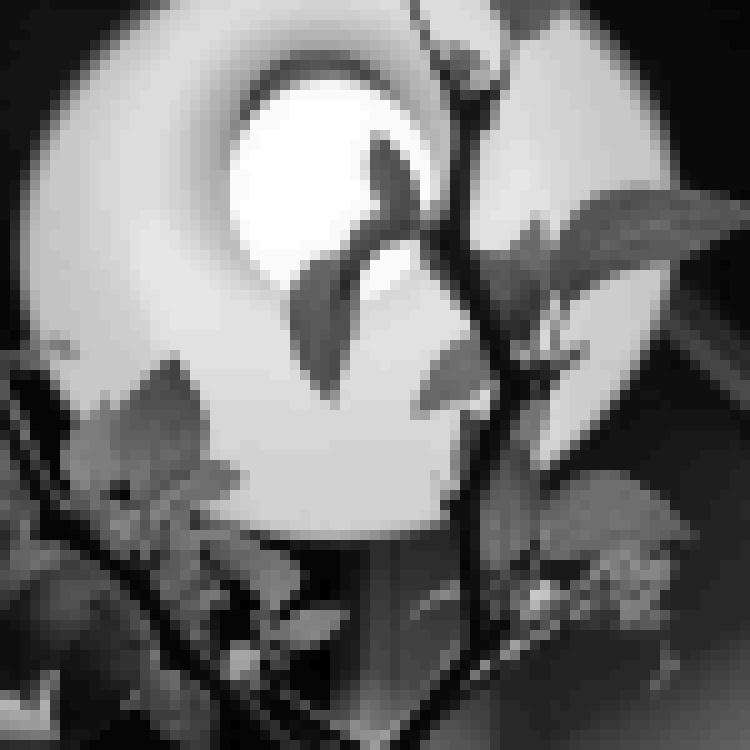
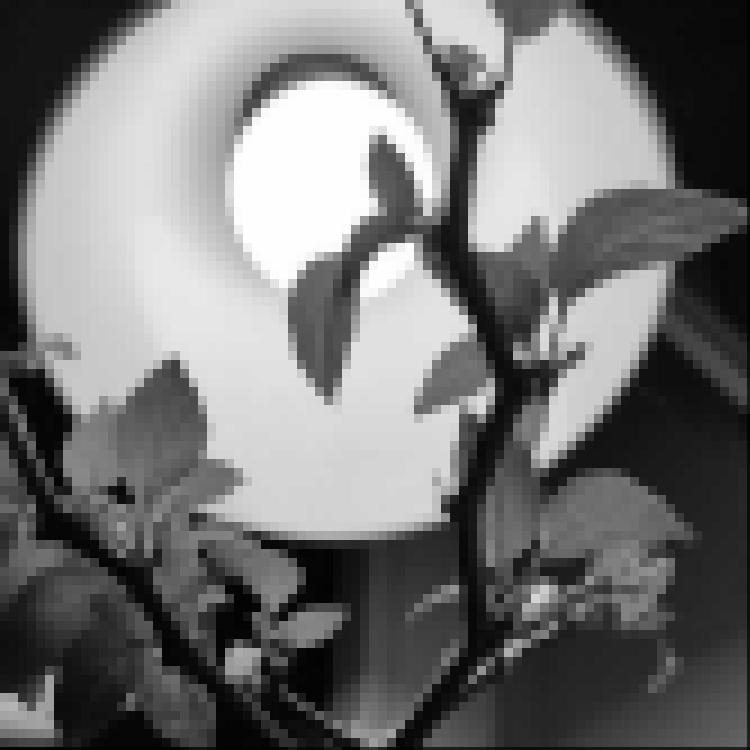
step_three

diff --git a/filter.py b/filter.py
@@ -1,37 +1,25 @@
-from PIL import Image
-from numpy import *
 import numpy as np
+from PIL import Image
 
 
 class GreyImage:
     def __init__(self, pix_array, pix_size=10, gradation=5):
         self.image = np.array(pix_array)
         self.size = pix_size
-        self.gradation = 255 // gradation
-        self.height = len(self.image)
-        self.width = len(self.image[0])
+        self.grad = 255 // gradation
+        self.width = len(self.image)
+        self.height = len(self.image[0])
 
     def get_grey_image(self):
-        for px in range(0, self.width, self.size):
+        for x in range(0, self.width, self.size):
             for y in range(0, self.height, self.size):
-                self.get_grey_color(color=self.get_middle_color(px, y), px=px, y=y)
+                    self.image[x:x + self.size, y:y + self.size] = self.get_middle_color(x, y)
         return Image.fromarray(self.image)
 
-    def get_middle_color(self, px, y):
-        color = 0
-        for column in range(px, px + self.size):
-            for row in range(y, y + self.size):
-                color += sum([int(self.image[column][row][i]) for i in range(3)])
-        return int(color / 3 // (self.size ** 2))
-
-    def get_grey_color(self, color, px, y):
-        for column in range(px, px + self.size):
-            for row in range(y, y + self.size):
-                self.image[column][row][0] = int(color // self.gradation) * self.gradation
-                self.image[column][row][1] = int(color // self.gradation) * self.gradation
-                self.image[column][row][2] = int(color // self.gradation) * self.gradation
+    def get_middle_color(self, x, y):
+        return int(self.image[x:x + self.size, y:y + self.size].sum() / 3 // self.size ** 2 // self.grad * self.grad)
 
 
-orig_image = Image.open("img2.jpg")
-result = GreyImage(pix_array=orig_image, pix_size=int(input()), gradation=int(input())).get_grey_image()
-result.save('res.jpg')
+orig_img = Image.open("img2.jpg")
+arr = GreyImage(orig_img, pix_size=int(input()), gradation=int(input())).get_grey_image()
+arr.save('res.jpg')
